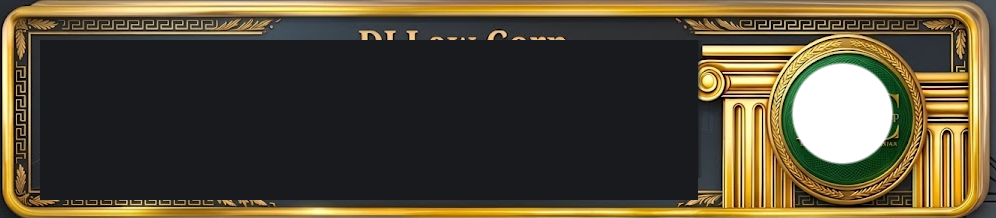
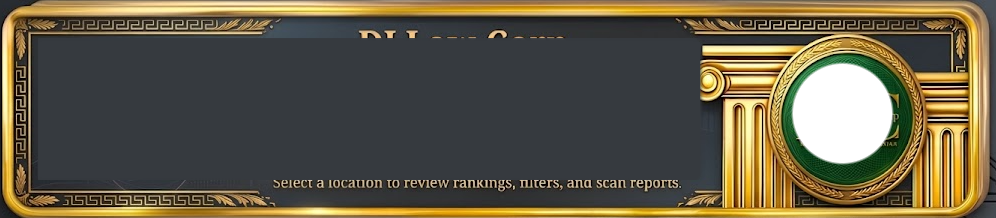
feat(lf): SoT photoreal hub plate + Nick punch (arrows, OL density)
Full SoT-cropped hero chrome (meander/columns/seal), SoT header justify-mark
with two green arrows, denser watermark, quieter sat map thumbs, simplified
Office Locations chrome. Band C retip for Design re-PASS; Band D HOLD.

diff --git a/components/ClientHub.tsx b/components/ClientHub.tsx
@@ -24,109 +24,96 @@ export function ClientHub({ client }: { client: LfClient }) {
         className="pointer-events-none absolute inset-0 -z-10 overflow-hidden"
         aria-hidden
       >
-        <LegalCircuitWatermark className="h-full min-h-[720px] w-full object-cover opacity-[0.22]" />
+        <LegalCircuitWatermark className="h-full min-h-[720px] w-full object-cover opacity-[0.32]" />
       </div>
 
-      {/* Framed hero — photoreal SoT chrome plate + overlay typography/crest */}
+      {/* Framed hero — photoreal SoT chrome plate (aspect-locked) + overlay type/crest */}
       <section
-        className="relative overflow-hidden rounded-[18px] shadow-2xl shadow-black/55"
-        style={{ backgroundColor: "#181a1e" }}
+        className="relative overflow-hidden rounded-[16px] shadow-2xl shadow-black/55"
+        style={{ backgroundColor: "#141618" }}
         aria-label={`${client.name} client dashboard`}
       >
-        {/* Photoreal plate: meander frame + columns + seal ring */}
-        <HeroChromePlate className="pointer-events-none absolute inset-0 z-[1] h-full w-full object-fill" />
+        <div className="relative w-full" style={{ aspectRatio: "996 / 218" }}>
+          {/* Photoreal plate: full SoT meander/columns/seal (pixels, not SVG) */}
+          <HeroChromePlate className="pointer-events-none absolute inset-0 z-[1] h-full w-full object-fill" />
 
-        {/* faint line-chart watermark inside plate */}
-        <svg
-          className="pointer-events-none absolute inset-0 z-[2] h-full w-full text-white opacity-[0.08]"
-          aria-hidden
-          preserveAspectRatio="none"
-          viewBox="0 0 800 220"
-        >
-          <polyline
-            fill="none"
-            stroke="currentColor"
-            strokeWidth="2.2"
-            points="40,160 100,140 160,150 220,110 280,120 340,80 400,100 460,55 520,90 580,45 640,75 700,40 760,60"
-          />
-        </svg>
 
-        {/* Crest locked to photoreal seal hole (~84.5% x, ~52% y of plate) */}
-        <div
-          className="pointer-events-none absolute z-[4] flex items-center justify-center overflow-hidden rounded-full"
-          style={{
-            right: "7.5%",
-            top: "50%",
-            transform: "translateY(-52%)",
-            width: "min(6.6rem, 14%)",
-            height: "min(6.6rem, 58%)",
-            backgroundColor: "color-mix(in srgb, var(--brand) 78%, #050805)",
-            boxShadow: "inset 0 0 16px rgba(0,0,0,0.5)",
-          }}
-          aria-hidden={!logoUrl}
-        >
-          {logoUrl ? (
-            // eslint-disable-next-line @next/next/no-img-element
-            <img
-              src={logoUrl}
-              alt={`${client.name} logo`}
-              width={150}
-              height={150}
-              className="pointer-events-auto h-[88%] w-[88%] object-contain"
-            />
-          ) : (
-            <span className="px-2 text-center text-[9px] font-medium uppercase tracking-wider text-white/50">
-              Crest unavailable
-            </span>
-          )}
-        </div>
-
-        <div className="relative z-[3] flex min-h-[11.5rem] flex-col items-stretch gap-4 px-7 py-8 sm:min-h-[13rem] sm:px-10 sm:py-9 lg:flex-row lg:items-center lg:gap-3">
-          {/* Left: justify local mark */}
-          <div className="flex shrink-0 justify-center lg:w-[9.5rem] lg:justify-start">
-            {/* eslint-disable-next-line @next/next/no-img-element */}
-            <img
-              src="/brands/_justify/logo.png"
-              alt="justify local"
-              width={150}
-              height={66}
-              className="h-14 w-auto object-contain sm:h-[4.5rem]"
-            />
+          {/* Crest locked to photoreal seal hole (~84.5% x) */}
+          <div
+            className="pointer-events-none absolute z-[4] flex items-center justify-center overflow-hidden rounded-full"
+            style={{
+              left: "84.5%",
+              top: "52%",
+              transform: "translate(-50%, -50%)",
+              width: "9.8%",
+              height: "45%",
+              backgroundColor: "color-mix(in srgb, var(--brand) 78%, #050805)",
+              boxShadow: "inset 0 0 12px rgba(0,0,0,0.55)",
+            }}
+          >
+            {logoUrl ? (
+              // eslint-disable-next-line @next/next/no-img-element
+              <img
+                src={logoUrl}
+                alt={`${client.name} logo`}
+                width={150}
+                height={150}
+                className="pointer-events-auto h-[88%] w-[88%] object-contain"
+              />
+            ) : (
+              <span className="px-1 text-center text-[8px] font-medium uppercase tracking-wider text-white/50">
+                Crest unavailable
+              </span>
+            )}
           </div>
 
-          {/* Center stack — dynamic firm typography (leave right pad for seal) */}
-          <div className="min-w-0 flex-1 space-y-1.5 px-2 text-center lg:pr-[16%]">
-            <h1
-              className="font-serif text-3xl font-semibold tracking-tight sm:text-4xl lg:text-[2.6rem]"
-              style={{
-                color: "var(--brand-accent)",
-                textShadow:
-                  "0 1px 0 rgba(255,255,255,0.18), 0 2px 10px rgba(0,0,0,0.6)",
-              }}
-            >
-              {client.name}
-            </h1>
-            <p
-              className="text-[11px] font-semibold uppercase tracking-[0.22em] sm:text-xs"
-              style={{ color: "var(--brand-accent)" }}
-            >
-              CLIENT DASHBOARD
-            </p>
-            <p
-              className="text-base font-medium tabular-nums sm:text-lg"
-              style={{ color: "var(--brand-accent)" }}
-            >
-              {countsLine}
-            </p>
-            <p
-              className="mx-auto max-w-xl text-sm italic leading-relaxed"
-              style={{
-                color:
-                  "color-mix(in srgb, var(--brand-accent) 55%, #ffffff)",
-              }}
-            >
-              Select a location to review rankings, filters, and scan reports.
-            </p>
+          <div className="relative z-[3] flex h-full items-center gap-3 px-[4%] py-[3%]">
+            {/* Left: justify local mark */}
+            <div className="flex w-[14%] shrink-0 justify-start">
+              {/* eslint-disable-next-line @next/next/no-img-element */}
+              <img
+                src="/brands/_justify/logo.png"
+                alt="justify local"
+                width={150}
+                height={66}
+                className="h-auto w-full max-w-[9.5rem] object-contain"
+              />
+            </div>
+
+            {/* Center stack — dynamic firm typography */}
+            <div className="min-w-0 flex-1 space-y-0.5 pr-[18%] text-center">
+              <h1
+                className="font-serif text-[clamp(1.25rem,2.8vw,2.6rem)] font-semibold leading-tight tracking-tight"
+                style={{
+                  color: "var(--brand-accent)",
+                  textShadow:
+                    "0 1px 0 rgba(255,255,255,0.18), 0 2px 10px rgba(0,0,0,0.6)",
+                }}
+              >
+                {client.name}
+              </h1>
+              <p
+                className="text-[clamp(9px,1.1vw,12px)] font-semibold uppercase tracking-[0.22em]"
+                style={{ color: "var(--brand-accent)" }}
+              >
+                CLIENT DASHBOARD
+              </p>
+              <p
+                className="text-[clamp(0.85rem,1.5vw,1.15rem)] font-medium tabular-nums"
+                style={{ color: "var(--brand-accent)" }}
+              >
+                {countsLine}
+              </p>
+              <p
+                className="mx-auto max-w-xl text-[clamp(0.7rem,1.1vw,0.875rem)] italic leading-snug"
+                style={{
+                  color:
+                    "color-mix(in srgb, var(--brand-accent) 55%, #ffffff)",
+                }}
+              >
+                Select a location to review rankings, filters, and scan reports.
+              </p>
+            </div>
           </div>
         </div>
       </section>
@@ -159,16 +146,14 @@ export function ClientHub({ client }: { client: LfClient }) {
                 </span>
               </div>
 
-              <div className="mt-2 flex items-start justify-between gap-3">
+              <div className="mt-2 flex items-start gap-3">
                 <p className="min-w-0 flex-1 text-sm leading-snug text-white/75">
                   {loc.address || "Address unavailable"}
                 </p>
-                <div className="shrink-0 overflow-hidden rounded">
-                  <MapThumbPlaceholder
-                    className="h-12 w-14 object-cover"
-                    label={loc.city || loc.name}
-                  />
-                </div>
+                <MapThumbPlaceholder
+                  className="h-10 w-11 shrink-0 rounded object-cover opacity-90"
+                  label={loc.city || loc.name}
+                />
               </div>
 
               <div className="mt-4 flex justify-end">

diff --git a/components/AppShell.tsx b/components/AppShell.tsx
@@ -152,7 +152,7 @@ export function AppShell({
 
           {/* Center: justify mark */}
           <div className="flex justify-center">
-            <JustifyMark className="h-7 w-auto sm:h-8" />
+            <JustifyMark className="h-8 w-auto object-contain sm:h-9" />
           </div>
 
           {/* Right: clock + profile pill */}
